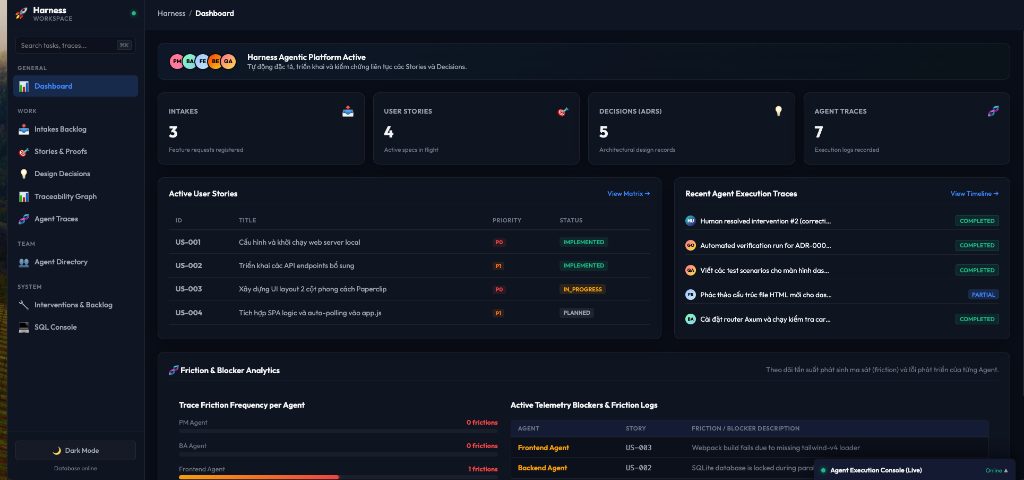
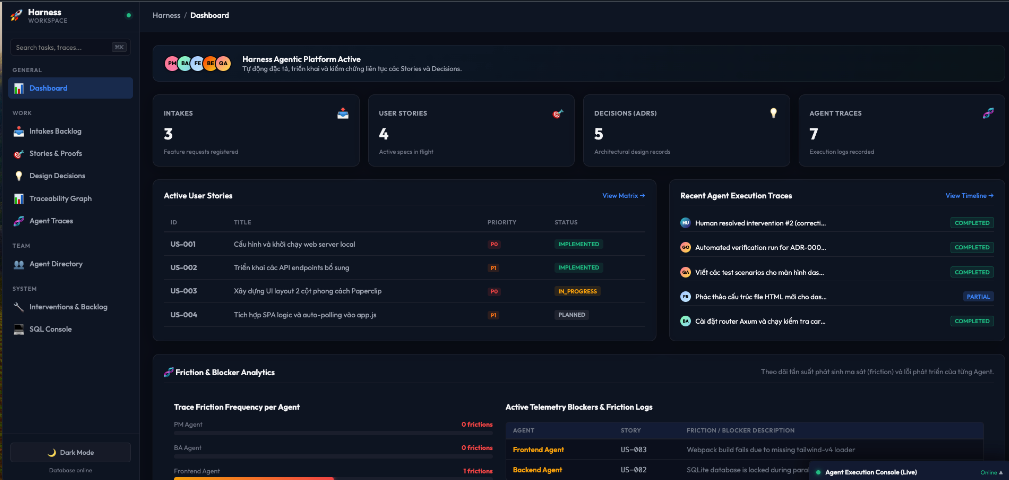
fix(web): solve compilation error and hardcoded paths, update dashboard image

diff --git a/crates/harness-web/src/main.rs b/crates/harness-web/src/main.rs
@@ -7,6 +7,7 @@ use axum::{
 };
 use rusqlite::{params, Connection};
 use serde::{Deserialize, Serialize};
+use serde_json::json;
 use std::path::PathBuf;
 use std::sync::Arc;
 use tower_http::services::ServeDir;
@@ -16,6 +17,7 @@ use std::fs;
 
 struct AppState {
     db_path: PathBuf,
+    repo_root: PathBuf,
 }
 
 #[derive(Serialize)]
@@ -255,7 +257,7 @@ async fn main() {
     println!("Starting Harness Web Server...");
     println!("Database path: {}", db_path.display());
 
-    let state = Arc::new(AppState { db_path });
+    let state = Arc::new(AppState { db_path, repo_root: repo_root.clone() });
 
     // Serve static files from the UI directory
     let ui_dir = std::env::current_dir().unwrap().join("crates/harness-web/ui");
@@ -320,8 +322,8 @@ async fn get_stats(State(state): State<Arc<AppState>>) -> impl IntoResponse {
     .into_response()
 }
 
-async fn get_discussion() -> impl IntoResponse {
-    let messages_path = PathBuf::from("/d/harness/.agents/comms/messages/messages.json");
+async fn get_discussion(State(state): State<Arc<AppState>>) -> impl IntoResponse {
+    let messages_path = state.repo_root.join(".agents/comms/messages/messages.json");
     let messages = if messages_path.exists() {
         match tokio::fs::read_to_string(&messages_path).await {
             Ok(content) => match serde_json::from_str::<Vec<serde_json::Value>>(&content) {
@@ -336,8 +338,8 @@ async fn get_discussion() -> impl IntoResponse {
     Json(json!({ "messages": messages })).into_response()
 }
 
-async fn get_agent_status() -> impl IntoResponse {
-    let state_path = PathBuf::from("/d/harness/.agents/comms/state/agent_status.json");
+async fn get_agent_status(State(state): State<Arc<AppState>>) -> impl IntoResponse {
+    let state_path = state.repo_root.join(".agents/comms/state/agent_status.json");
     let mut agents = Vec::new();
     let default_agents = ["pm", "ba", "fe", "be", "qa", "aud"];
 